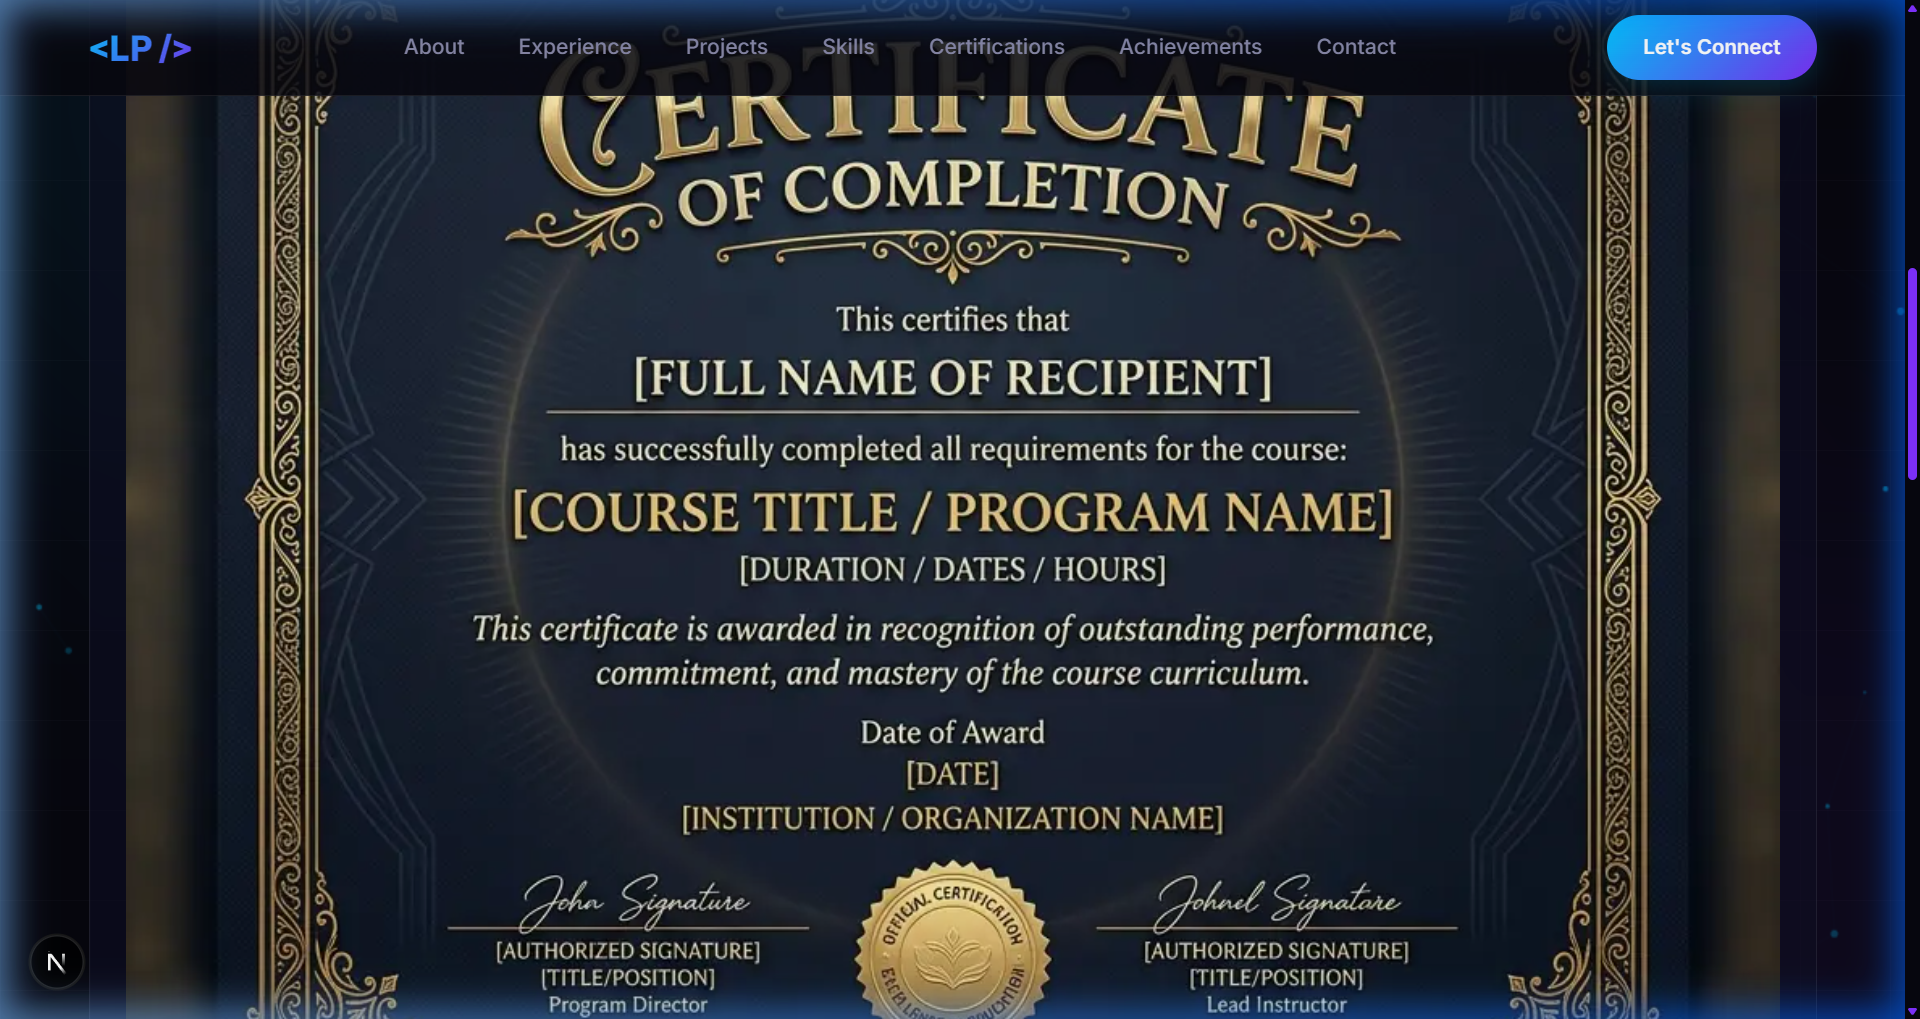
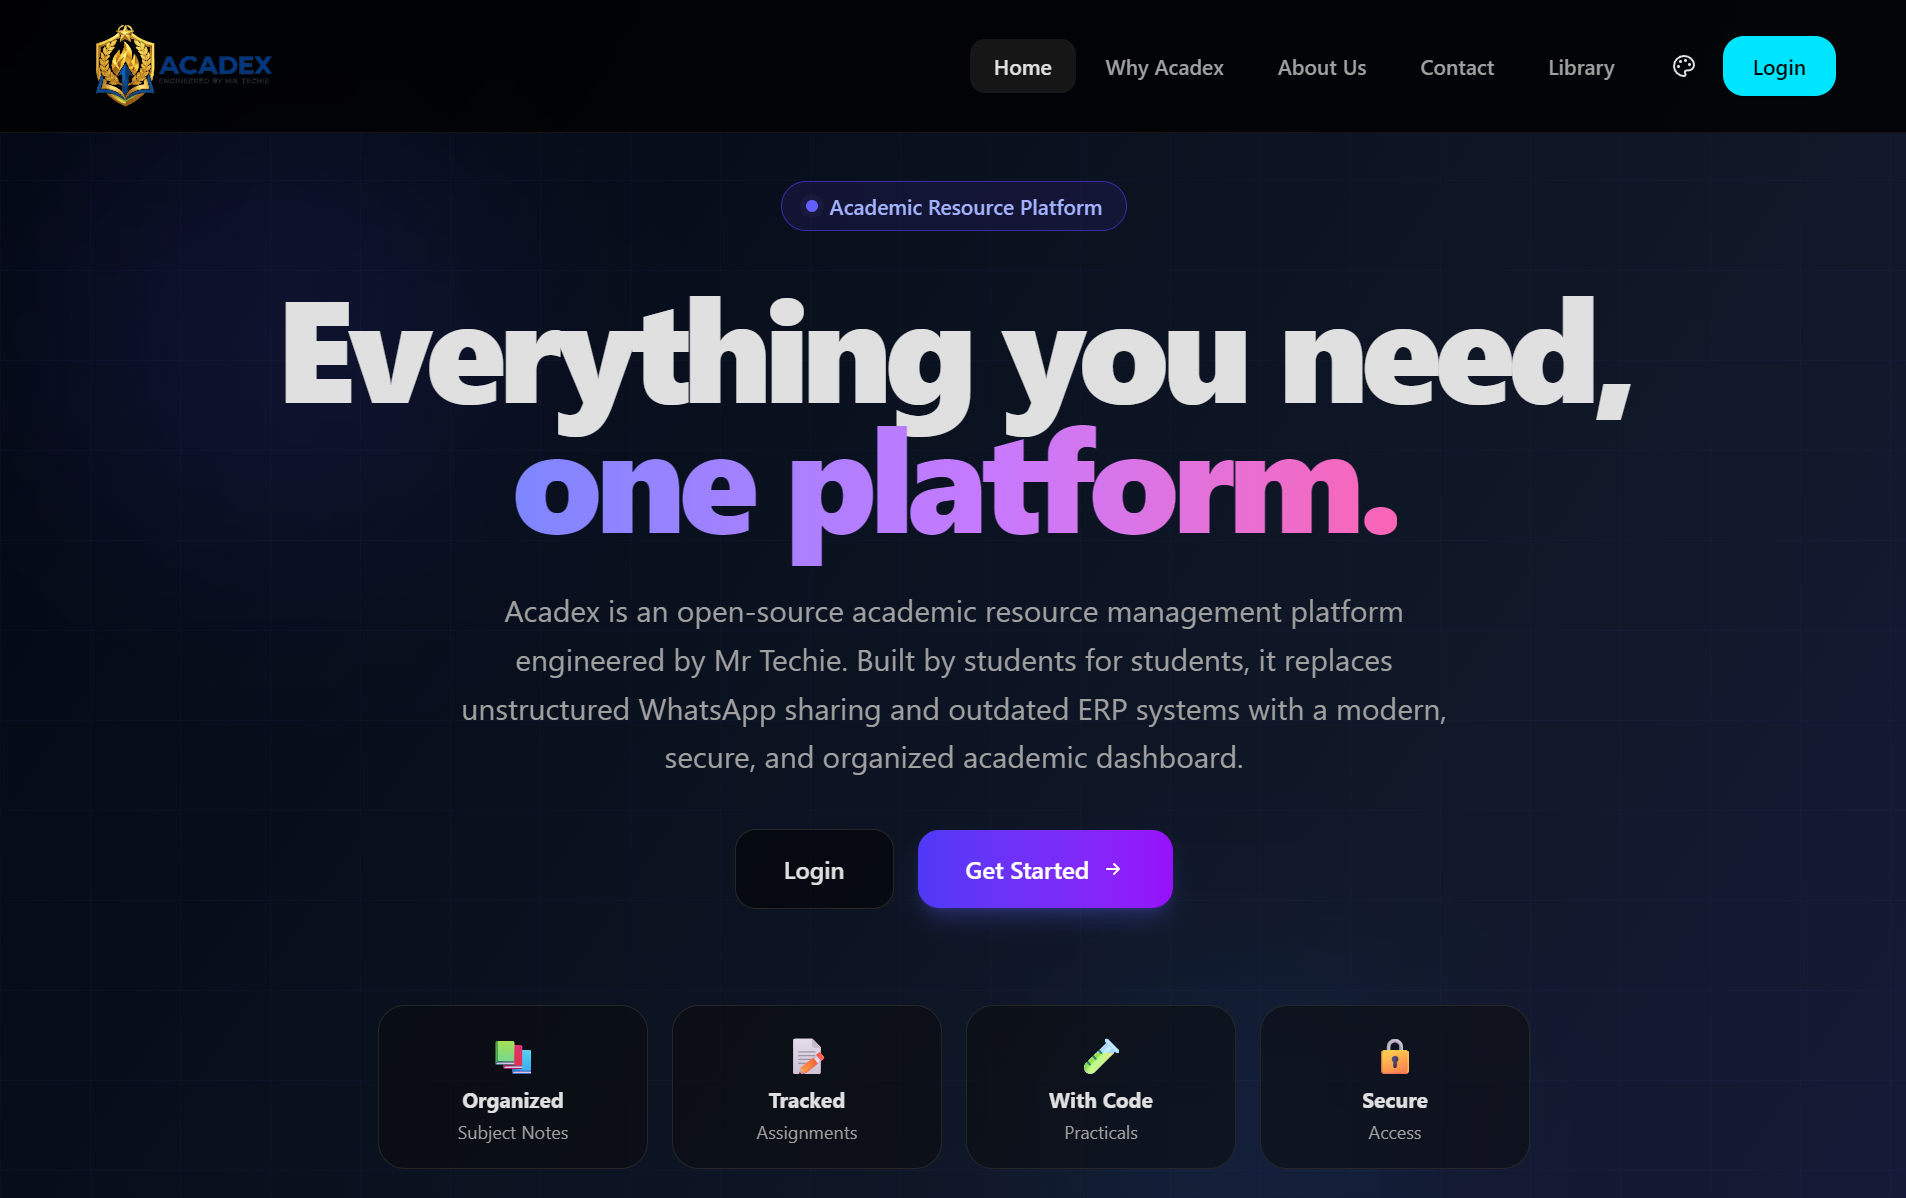
V2

diff --git a/data/projects.js b/data/projects.js
@@ -1,28 +1,29 @@
 export const projects = [
   {
-    slug: "smart-recycling-hub",
+    slug: "smart-cleaning-bot",
     number: "01",
-    title: "Smart Recycling Hub (Haldwani)",
-    category: "Web Development",
+    title: "Smart Cleaning Bot — AtomQuest 2025",
+    category: "IoT & Robotics",
     date: "2025",
-    image: "/projects/placeholder-web.svg",
-    images: ["/projects/placeholder-web.svg", "/projects/placeholder-web-2.svg", "/projects/placeholder-web-3.svg"],
+    image: "/projects/smart-cleaning-bot.jpg",
+    images: ["/projects/smart-cleaning-bot.jpg", "/projects/placeholder-iot-2.svg", "/projects/placeholder-iot-3.svg"],
     videoUrl: null,
-    description: "Production-ready Next.js platform for smart waste management with live map tracking, geolocation routing, user reviews, and a management dashboard.",
-    longDescription: "Developed a production-ready Next.js and Tailwind CSS platform for smart waste management in Haldwani. The platform enables citizens to locate recycling bins via an interactive map, get real-time routing to the nearest bin, and submit reviews. A management dashboard provides sorting, filtering, and high-priority bin alerts for administrators.",
+    description: "Semi-autonomous robot to collect dry waste with obstacle avoidance. First runner-up at AtomQuest 2025 National Robotics Competition.",
+    longDescription: "Designed and built a semi-autonomous robot to collect dry waste while actively avoiding obstacles. Led the team at AtomQuest 2025 National Robotics Competition, achieving first runner-up position. Integrated ESP32 microcontroller with ultrasonic and IR sensors, and motor driver circuits for guided navigation.",
     features: [
-      "Live map using Leaflet and OpenStreetMap with color-coded bin markers",
-      "Geolocation to find the nearest bin and visualize routes",
-      "Google Maps deep links for turn-by-turn navigation",
-      "Dashboard with sorting, filtering, and high-priority bin alerts",
-      "Review submissions with real-time updates using localStorage",
-      "Modern, responsive UI with dark mode support"
+      "Semi-autonomous navigation with obstacle avoidance",
+      "ESP32-based control system with sensor integration",
+      "Ultrasonic and IR sensor array for environment mapping",
+      "Optimized algorithm for obstacle avoidance and line following",
+      "25% improvement in navigation accuracy through calibration",
+      "Motor driver circuits for precise movement control"
     ],
-    techStack: ["Next.js 15", "React 19", "TypeScript 5", "Tailwind CSS 4", "Leaflet", "React-Leaflet", "OpenStreetMap"],
-    githubUrl: "https://github.com/Techy-Play/Smart-Recycling-System",
-    liveUrl: "https://smart-recycling-system.vercel.app/",
-    featured: true,
+    techStack: ["ESP32", "IoT", "Ultrasonic Sensors", "IR Sensors", "Arduino IDE", "Embedded C"],
+    githubUrl: null,
+    liveUrl: null,
+    featured: false,
   },
+
   {
     slug: "acadex",
     number: "02",
@@ -73,29 +74,30 @@ export const projects = [
     featured: true,
   },
   {
-    slug: "smart-cleaning-bot",
+    slug: "smart-recycling-hub",
     number: "04",
-    title: "Smart Cleaning Bot — AtomQuest 2025",
-    category: "IoT & Robotics",
+    title: "Smart Recycling Hub (Haldwani)",
+    category: "Web Development",
     date: "2025",
-    image: "/projects/smart-cleaning-bot.jpg",
-    images: ["/projects/smart-cleaning-bot.jpg", "/projects/placeholder-iot-2.svg", "/projects/placeholder-iot-3.svg"],
+    image: "/projects/placeholder-web.svg",
+    images: ["/projects/placeholder-web.svg", "/projects/placeholder-web-2.svg", "/projects/placeholder-web-3.svg"],
     videoUrl: null,
-    description: "Semi-autonomous robot to collect dry waste with obstacle avoidance. First runner-up at AtomQuest 2025 National Robotics Competition.",
-    longDescription: "Designed and built a semi-autonomous robot to collect dry waste while actively avoiding obstacles. Led the team at AtomQuest 2025 National Robotics Competition, achieving first runner-up position. Integrated ESP32 microcontroller with ultrasonic and IR sensors, and motor driver circuits for guided navigation.",
+    description: "Production-ready Next.js platform for smart waste management with live map tracking, geolocation routing, user reviews, and a management dashboard.",
+    longDescription: "Developed a production-ready Next.js and Tailwind CSS platform for smart waste management in Haldwani. The platform enables citizens to locate recycling bins via an interactive map, get real-time routing to the nearest bin, and submit reviews. A management dashboard provides sorting, filtering, and high-priority bin alerts for administrators.",
     features: [
-      "Semi-autonomous navigation with obstacle avoidance",
-      "ESP32-based control system with sensor integration",
-      "Ultrasonic and IR sensor array for environment mapping",
-      "Optimized algorithm for obstacle avoidance and line following",
-      "25% improvement in navigation accuracy through calibration",
-      "Motor driver circuits for precise movement control"
+      "Live map using Leaflet and OpenStreetMap with color-coded bin markers",
+      "Geolocation to find the nearest bin and visualize routes",
+      "Google Maps deep links for turn-by-turn navigation",
+      "Dashboard with sorting, filtering, and high-priority bin alerts",
+      "Review submissions with real-time updates using localStorage",
+      "Modern, responsive UI with dark mode support"
     ],
-    techStack: ["ESP32", "IoT", "Ultrasonic Sensors", "IR Sensors", "Arduino IDE", "Embedded C"],
-    githubUrl: null,
-    liveUrl: null,
-    featured: false,
+    techStack: ["Next.js 15", "React 19", "TypeScript 5", "Tailwind CSS 4", "Leaflet", "React-Leaflet", "OpenStreetMap"],
+    githubUrl: "https://github.com/Techy-Play/Smart-Recycling-System",
+    liveUrl: "https://smart-recycling-system.vercel.app/",
+    featured: true,
   },
+
   {
     slug: "railway-platform-security",
     number: "05",
@@ -185,7 +187,7 @@ export const projects = [
       "Cost-effective sensor integration",
       "Prototype demonstration with documentation"
     ],
-    techStack: ["IoT", "ESP32", "Sensors", "Web Dashboard"],
+    techStack: ["Next js", "ESP32", "Sensors", "Web Dashboard"],
     githubUrl: "https://github.com/Techy-Play/Smart-Waste-Management-System",
     liveUrl: null,
     featured: false,

diff --git a/app/certifications/[slug]/page.js b/app/certifications/[slug]/page.js
@@ -102,13 +102,7 @@ export default async function CertDetailPage({ params }) {
               >
                 <i className="fa-solid fa-arrow-up-right-from-square" /> Verify Credential
               </a>
-              <button
-                className="btn-outline credential-copy"
-                onClick={null}
-                data-credential={cert.credentialId}
-              >
-                <i className="fa-regular fa-copy" /> Copy ID
-              </button>
+
             </div>
           </div>
         )}
@@ -155,8 +149,8 @@ function getVerifyUrl(cert) {
   const issuer = cert.issuer.toLowerCase();
   if (issuer.includes("hackerrank")) return `https://www.hackerrank.com/certificates/${cert.credentialId}`;
   if (issuer.includes("cisco")) return `https://www.credly.com/badges/${cert.credentialId}`;
-  if (issuer.includes("red hat")) return `https://rhtapps.redhat.com/verify?certId=${cert.credentialId}`;
-  if (issuer.includes("rasa")) return `https://academy.rasa.io/certificates/${cert.credentialId}`;
+  if (issuer.includes("red hat")) return `https://www.credly.com/badges/${cert.credentialId}`;
+  if (issuer.includes("rasa")) return `https://www.linkedin.com/in/lokeshpaneru/details/certifications/`;
   if (issuer.includes("simplilearn")) return `https://www.simplilearn.com/skillup-certificate-landing?token=${cert.credentialId}`;
   // Default — LinkedIn profile
   return "https://www.linkedin.com/in/lokeshpaneru/details/certifications/";

diff --git a/data/siteData.js b/data/siteData.js
@@ -67,6 +67,7 @@ export const certifications = [
     title: "Getting Started with Linux Fundamentals (RH104)",
     issuer: "Red Hat",
     date: "Apr 2026",
+    credentialId: "4e9c847d-5634-4c89-a3e9-b2c7305baac2",
     image: "/certificates/Red Hat TrainingGetting Started with Linux Fundamentals.png",
     description: "Red Hat Training certification covering Linux fundamentals including system administration, file management, user management, and core Linux server concepts on RHEL 9.1.",
     skills: ["Linux", "Linux Server", "System Administration"],
@@ -170,15 +171,7 @@ export const certifications = [
     description: "ISO-certified training in Python programming applied to IoT and robotics projects, covering embedded systems, sensor integration, and automation scripting.",
     skills: ["IoT", "Embedded Systems", "Python", "Robotics"],
   },
-  {
-    slug: "sql-databases",
-    title: "SQL and Databases",
-    issuer: "Training Institute",
-    date: "2024",
-    image: "/certificates/SQL Basic Certification.jpg",
-    description: "Certification in SQL querying, database design, normalization, and working with MySQL, PostgreSQL, and SQLite databases.",
-    skills: ["MySQL", "PostgreSQL", "SQLite"],
-  },
+
 ];
 
 export function getCertBySlug(slug) {

diff --git a/app/page.js b/app/page.js
@@ -38,7 +38,7 @@ export default function Home() {
             <div className="hero-image-glow" />
             <div className="hero-image-ring">
               <div className="hero-image">
-                <Image src="/profile-lokesh.png" alt="Lokesh Paneru" width={320} height={320} style={{ width: "100%", height: "100%", borderRadius: "50%", objectFit: "cover" }} priority />
+                <Image src="/profile.jpg" alt="Lokesh Paneru" width={320} height={320} style={{ width: "100%", height: "100%", borderRadius: "50%", objectFit: "cover" }} priority />
               </div>
             </div>
           </div>